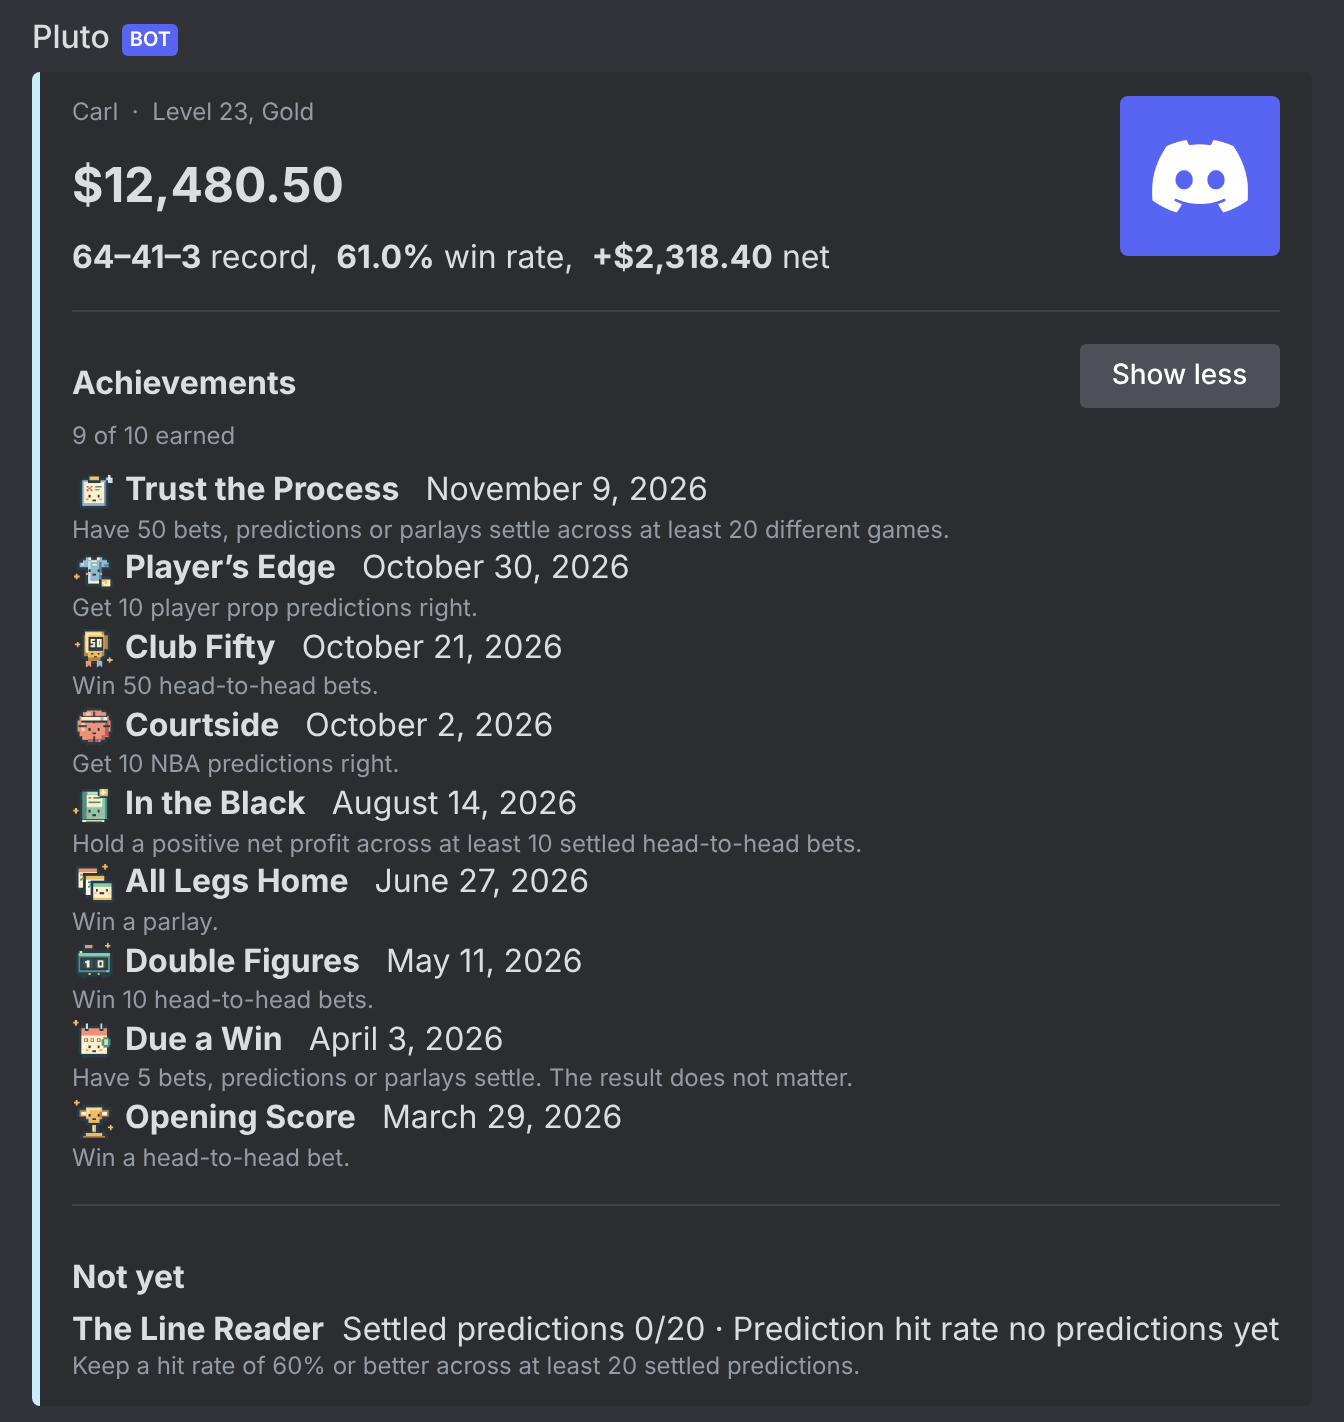
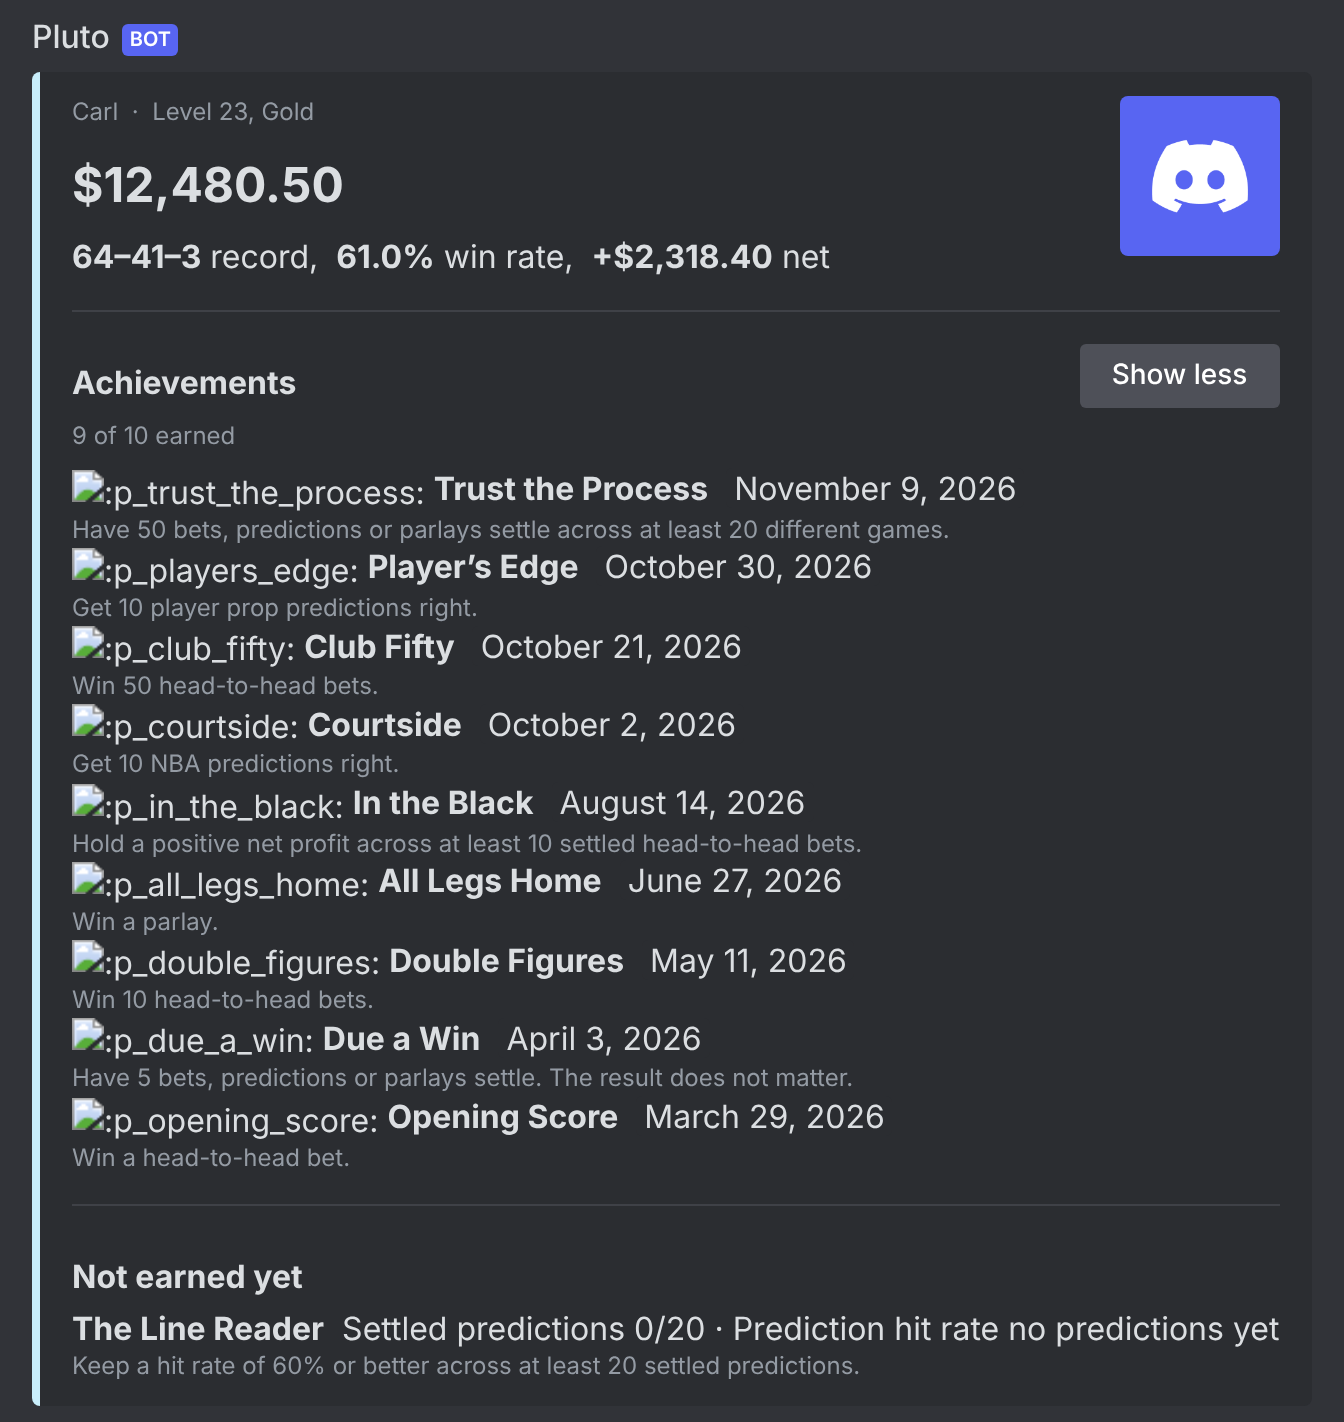
fix(profile): tighten the profile view and badge list copy
Say what the Trophy Shelf shows and what the default view setting does in
plain words, and head the open list "Not earned yet" to match the shelf.
Carries the #773 badge list copy so both branches read the same.
Previews D11d and D13 re-rendered.

Claude-Session: https://claude.ai/code/session_01PE1QXV3p43Xv7GaFhJ33V8

diff --git a/src/lib/discord/builders/__tests__/achievements.test.ts b/src/lib/discord/builders/__tests__/achievements.test.ts
@@ -106,9 +106,9 @@ describe('achievementsPayload', () => {
 		})
 		expect(texts(payload)).toEqual([
 			'## Achievements: Harbor\n-# 2 of 3 badges earned',
-			`**Earned**\n<:p_opening_score:${ID}> **Opening Score**: Win a head-to-head bet.\n<:p_in_the_black:${ID}> **In the Black**: Hold a positive net profit across at least 10 settled head-to-head bets. Held while you meet the bar.`,
+			`**Earned**\n<:p_opening_score:${ID}> **Opening Score**: Win a head-to-head bet.\n<:p_in_the_black:${ID}> **In the Black**: Hold a positive net profit across at least 10 settled head-to-head bets. You keep it only while you still qualify.`,
 			'**Still to earn**\n**The Line Reader**: Keep a hit rate of 60% or better across at least 20 settled predictions.\n-# Settled predictions 20/20 (done) · Prediction hit rate 55.0% of 60%',
-			'-# Badges are cosmetic. Pluto checks them when a profile or this list is opened.',
+			'-# Badges are just for show. Pluto updates them when you open a profile or this list.',
 		])
 	})
 

diff --git a/src/lib/discord/builders/profile-views.ts b/src/lib/discord/builders/profile-views.ts
@@ -231,7 +231,7 @@ function headlineAchievements(o: ProfileViewOptions) {
 				...top,
 				...(lists.earned ? [text(lists.earned)] : []),
 				...(lists.open
-					? [divider(), text(`### Not yet\n${lists.open}`)]
+					? [divider(), text(`### Not earned yet\n${lists.open}`)]
 					: []),
 			],
 			row: null,
@@ -413,7 +413,7 @@ export function profileSettingsPayload(opts: {
 }) {
 	const describe: Record<ProfileView, string> = {
 		headline: 'Balance first, then your latest achievements',
-		trophy_shelf: 'Achievement art with the rule for each',
+		trophy_shelf: 'Badge art, with how to earn each one',
 	}
 	const select = new StringSelectMenuBuilder()
 		.setCustomId(
@@ -434,7 +434,7 @@ export function profileSettingsPayload(opts: {
 		blocks: [
 			text('## Profile settings'),
 			text(
-				'Choose the view your profile opens in. Anyone who opens your profile sees it.',
+				'Pick how your profile looks. Everyone who opens it sees this view.',
 			),
 			text(
 				opts.saved

diff --git a/src/lib/discord/builders/achievements.ts b/src/lib/discord/builders/achievements.ts
@@ -7,7 +7,7 @@ const SNOWFLAKE = /^\d{17,20}$/
 
 /** Above this the full text switches to compact lines, leaving room under the 4,000 V2 limit. */
 const FULL_TEXT_BUDGET = 3600
-const FORM_NOTE = 'Held while you meet the bar.'
+const FORM_NOTE = 'You keep it only while you still qualify.'
 
 export function encodeAchievementsView(targetId: string): string {
 	if (!SNOWFLAKE.test(targetId)) throw new Error('invalid achievements id')
@@ -61,7 +61,7 @@ export function achievementsPayload(
 ) {
 	const heading = `## Achievements: ${escapeMarkdown(displayName)}\n-# ${view.earned.length} of ${view.total} badges earned`
 	const footnote =
-		'Badges are cosmetic. Pluto checks them when a profile or this list is opened.'
+		'Badges are just for show. Pluto updates them when you open a profile or this list.'
 	let { earned, locked } = sections(view, false)
 	if (
 		heading.length + earned.length + locked.length + footnote.length >

diff --git a/src/lib/badges/__tests__/badge-view.test.ts b/src/lib/badges/__tests__/badge-view.test.ts
@@ -98,7 +98,7 @@ describe('buildAchievementsView', () => {
 			{ label: 'Settled H2H bets', text: '10/10', met: true },
 			{
 				label: 'Net H2H profit',
-				text: '-$12.50, needs above $0.00',
+				text: '-$12.50, needs to be above $0.00',
 				met: false,
 			},
 		])
@@ -264,7 +264,7 @@ describe('formatGate', () => {
 					met,
 				}),
 			).text
-		expect(text(-12.5, false)).toBe('-$12.50, needs above $0.00')
+		expect(text(-12.5, false)).toBe('-$12.50, needs to be above $0.00')
 		expect(text(50, true)).toBe('$50.00')
 	})
 

diff --git a/src/lib/badges/badge-view.ts b/src/lib/badges/badge-view.ts
@@ -65,7 +65,7 @@ export function formatGate(gate: AchievementGate): GateView {
 			text:
 				met || gate.comparator !== 'gt'
 					? value
-					: `${value}, needs above ${money(target)}`,
+					: `${value}, needs to be above ${money(target)}`,
 		}
 	}
 	return {
